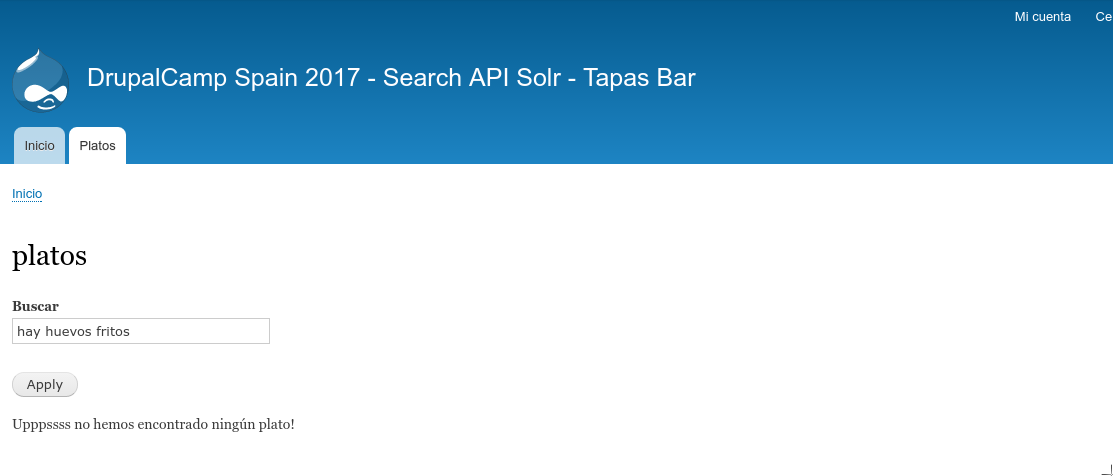
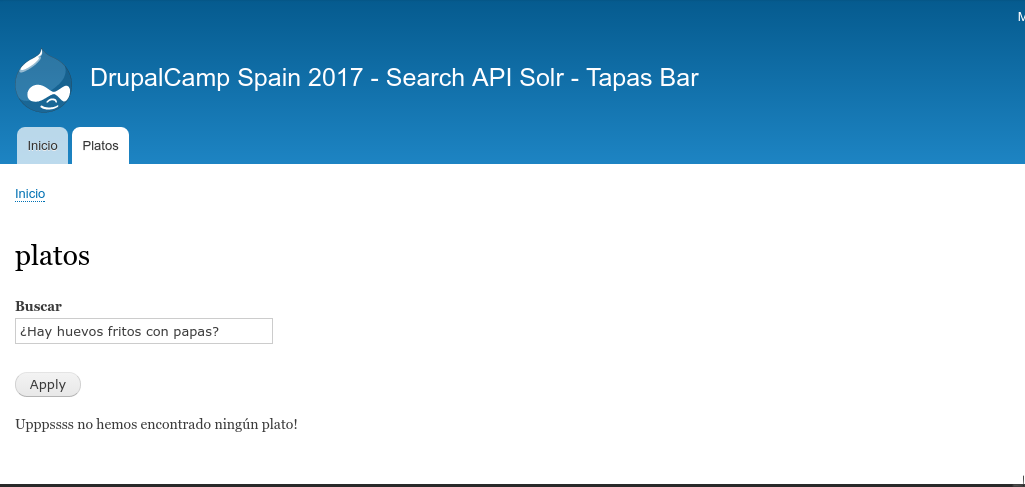
Highlight

diff --git a/index.html b/index.html
@@ -45,7 +45,7 @@
 					</div>
 
 					<div class="drupalcamp-label-blue left xsmall inline-block" style="float:right">
-						#drupalcamp2017
+						#DrupalCampEs
 					</div>
 
 				</section>
@@ -404,7 +404,7 @@
 				<!-- @section SEARCH API SOLR CONFIG-->
 				<section class="chapter-start search-api-solr-config">
 					<h2>Configuración de Search API Solr</h2>
-					<img src="assets/install/config-index-init.png">
+
 				</section>
 				<!-- @endsection -->
 
@@ -515,7 +515,7 @@
 				</section>
 
 
-				<section class="search-api-solr-config.step-12">
+				<section id="search-api-solr-config.step-12" class="search-api-solr-config.step-12">
 					<p class="xxsmall">Paso 12</p>
 					<h4>Configurar Procesadores</h4>
 					<p class="xsmall left">Es una de las herramientas más potentes, por ahora vamos a activar los menos posibles. Algunos pueden interferir con "procesadores" de Solr.<br>Por lo general los procesadores por defecto añaden "propiedades" a los "items" o alteran los valores de sus campos (en distintas etapas del proceso).</p>
@@ -554,27 +554,98 @@
 				<section class="search-api-solr-config.step-17">
 					<h4>Demo</h4>
 					<p class="small">#fail</p>
-					<p class="xsmall left">Con los procesadores (Paso 12) por defecto de Search API podemos solucionar este problema, pero vamos a configurar Solr para que lo haga él.</p>
-					<img src="assets/install/demo-fail.png" width="100%">
+					<p class="xsmall left">Con los procesadores (<a href="#/search-api-solr-config.step-12">Paso 12</a>) por defecto de Search API podemos solucionar este problema, pero vamos a configurar Solr para que lo haga él.<br>Queremos eliminar los signos de interrogación y las palabras comunes como "Hay" o "con". Además queremos añadir "papas" como sinónimo de patatas.</p>
+					<img src="assets/install/demo-fail.png" width="90%">
 				</section>
 
 				<!-- @section SEARCH API SOLR CONFIG-->
-				<section class="search-api-solr-config.solr-config">
+				<section class="chapter-start solr-config">
 					<h2>Configuración de Solr</h2>
 				</section>
 				<!-- @endsection -->
 
+				<section class="solr-config.intro">
+					<h3>Pasos</h3>
+					<ol class="small">
+						<li>Crear un nuevo tipo de campo en el esquema de Solr</li>
+						<li>Añadimos campos dinámicos para ese nuevo tipo</li>
+						<li>Dar de alta el campo en Drupal (para que lo reconozca)</li>
+						<li>Indexar el campo y ver si ofrece mejores resultados</li>
+					</ol>
+				</section>
 
-				<!-- @section Herramientas Tunning -->
-				<section class="search-api-solr-config.tuning">
-					<h3>Tuneando Solr</h3>
-					<div class="xsmall">
+				<section class="solr-config.step-01">
+					<p class="xxsmall">Paso 1</p>
+					<h4>Nuevo tipo de campo en solr</h4>
+					<p class="xsmall">schema_extra_types.xml</p>
+					<pre><code class="xxsmall" data-trim data-noescape>
+&lt;fieldType name=&quot;text_tapas_bar&quot; class=&quot;solr.TextField&quot; positionIncrementGap=&quot;100&quot;&gt;
+    &lt;analyzer type=&quot;index&quot;&gt;
+        &lt;charFilter class=&quot;solr.MappingCharFilterFactory&quot; <mark>mapping=&quot;mapping-ISOLatin1Accent.txt&quot;</mark>/&gt;
+        &lt;tokenizer class=&quot;solr.WhitespaceTokenizerFactory&quot;/&gt;
+        &lt;filter class=&quot;solr.SynonymFilterFactory&quot; <mark>synonyms=&quot;lang/synonyms_es.txt&quot;</mark> ignoreCase=&quot;true&quot; expand=&quot;true&quot;/&gt;
+        &lt;filter class=&quot;solr.StopFilterFactory&quot; <mark>words=&quot;lang/stopwords_tildes_added_es.txt&quot; format=&quot;snowball&quot;</mark> ignoreCase=&quot;true&quot;/&gt;
+        &lt;filter class=&quot;solr.WordDelimiterFilterFactory&quot; generateWordParts=&quot;1&quot; generateNumberParts=&quot;1&quot; splitOnCaseChange=&quot;1&quot; splitOnNumerics=&quot;1&quot; catenateWords=&quot;1&quot; catenateNumbers=&quot;1&quot; catenateAll=&quot;0&quot; protected=&quot;protwords.txt&quot; preserveOriginal=&quot;1&quot;/&gt;
+        &lt;filter class=&quot;solr.LowerCaseFilterFactory&quot;/&gt;
+        <mark>&lt;filter class=&quot;solr.SpanishLightStemFilterFactory&quot;/&gt;</mark>
+        &lt;filter class=&quot;solr.RemoveDuplicatesTokenFilterFactory&quot;/&gt;
+    &lt;/analyzer&gt;
+    &lt;analyzer type=&quot;query&quot;&gt;
+        &lt;charFilter class=&quot;solr.MappingCharFilterFactory&quot; <mark>mapping=&quot;mapping-ISOLatin1Accent.txt&quot;</mark>/&gt;
+        &lt;tokenizer class=&quot;solr.WhitespaceTokenizerFactory&quot;/&gt;
+        &lt;!-- Read https://wiki.apache.org/solr/AnalyzersTokenizersTokenFilters#solr.SynonymFilterFactory --&gt;
+        &lt;!-- &lt;filter class=&quot;solr.SynonymFilterFactory&quot; <mark>synonyms=&quot;lang/synonyms_es.txt&quot;</mark> ignoreCase=&quot;true&quot; expand=&quot;true&quot;/&gt; --&gt;
+        &lt;filter class=&quot;solr.StopFilterFactory&quot; <mark>words=&quot;lang/stopwords_tildes_added_es.txt&quot; format=&quot;snowball&quot;</mark> ignoreCase=&quot;true&quot;/&gt;
+        &lt;filter class=&quot;solr.WordDelimiterFilterFactory&quot; generateWordParts=&quot;1&quot; generateNumberParts=&quot;1&quot; splitOnCaseChange=&quot;1&quot; splitOnNumerics=&quot;1&quot; catenateWords=&quot;0&quot; catenateNumbers=&quot;0&quot; catenateAll=&quot;0&quot; protected=&quot;protwords.txt&quot; preserveOriginal=&quot;1&quot;/&gt;
+        &lt;filter class=&quot;solr.LowerCaseFilterFactory&quot;/&gt;
+        <mark>&lt;filter class=&quot;solr.SpanishLightStemFilterFactory&quot;/&gt;</mark>
+        &lt;filter class=&quot;solr.RemoveDuplicatesTokenFilterFactory&quot;/&gt;
+    &lt;/analyzer&gt;
+&lt;/fieldType&gt;
+						</code></pre>
+				</section>
+
+				<section class="solr-config.step-02">
+					<p class="xxsmall">Paso 2</p>
+					<h4>Crear campos dinámicos asociados a ese tipo </h4>
+					<p class="xsmall">schema_extra_fields.xml</p>
+					<pre><code class="xxsmall" data-trim data-noescape>
+&lt;dynamicField name=&quot;tbars_*&quot; type=&quot;text_tapas_bar&quot; indexed=&quot;true&quot; stored=&quot;true&quot; multiValued=&quot;false&quot; termVectors=&quot;true&quot;/&gt;
+&lt;dynamicField name=&quot;tbarm_*&quot; type=&quot;text_tapas_bar&quot; indexed=&quot;true&quot; stored=&quot;true&quot; multiValued=&quot;true&quot; termVectors=&quot;true&quot;/&gt;
+					</code></pre>
+					<p>Estos campos dinámicos van a ser reconocidos por Search API Solr</p>
+				</section>
+
+
+				<section class="solr-config.step-03">
+					<p class="xxsmall">Paso 3</p>
+					<h4>Damos de alta el campo en Drupal, usando un plugin de search_api</h4>
+					<pre><code class="xxsmall" data-trim data-noescape>
+namespace Drupal\tapas_bar_solr\Plugin\search_api\data_type;
+use Drupal\search_api\DataType\DataTypePluginBase;
+/**
+ *
+ * @SearchApiDataType(
+ *   id = &quot;text_tapas_bar&quot;,
+ *   label = @Translation(&quot;FullText Tapas Bar&quot;),
+ *   description = @Translation(&quot;A text field which takes in account Spanish tapas bar language&quot;),
+ *   fallback_type = &quot;text&quot;,
+ *   prefix = &quot;tbar&quot;,
+ * )
+ */
+class TapasBarDataType extends DataTypePluginBase {
+}</code></pre>
+				</section>
+
+				<section class="solr-config.admin-files">
+					<h3>Vista de archivos</h3>
+					<div class="xxsmall">
 						<p><em>:8983/solr/#/my_core/files</em></p>
 						<table>
 							<tbody>
 							<tr>
 								<td>
-									<img src="assets/tools/solr-ui-admin-files.png" class="hide-pdf" width="100%" />
+									<img src="assets/tools/solr-ui-admin-files.png" width="100%" />
 								</td>
 								<td>
 									<dl class="fonts8">
@@ -583,7 +654,9 @@
 										<dt>Copia los archivos de configuración</dt>
 										<dd>search_api_solr/solr-conf/VERSION_NUMBER.x</dd>
 										<dt>stopwords_es.txt</dt>
-										<dd>Añade stopwords (con y sin tilde)</dd>
+										<dd>Añade stopwords</dd>
+										<dt>synonyms_es.xml</dt>
+										<dd>Añade sinónimos</dd>
 										<dt>mapping-ISOLatin1Accent.txt</dt>
 										<dd>Añade las entradas correspondientes</dd>
 										<dt>schema_extra_types.xml</dt>
@@ -605,12 +678,6 @@
 				</section>
 				<!-- @endsection -->
 
-				<!-- @section Objetivo demo -->
-				<section class="chapter-start example">
-					<h2>Ejemplo</h2>
-				</section>
-				<!-- @endsection -->
-
 				<!-- @section DOCUMENTACIÓN -->
 				<section class="chapter-start docs">
 					<h2>Documentación</h2>
@@ -618,21 +685,9 @@
 				<!-- @endsection -->
 
 				<!-- @section Cheat sheet Drupal -->
-				<section class="docs.pitfails.drupal" data-breadcrumb="Docs > Common pitfails">
-					<h2>Fallos frecuentes</h2>
-					<dl class="xsmall">
-						<dt>No planificar la búsqueda</dt>
-						<dd>Recoge toda la información que puedas sobre hábitos de búsqueda</dd>
-						<dd>Ten en cuenta el contexto. Ej. papas en una página de comida puede ser sinónimo de patatas, mientras que en una de maternidad podría no tener sentido</dd>
-						<dd>Es mejor comenzar con pocos datos a indexar</dd>
-					</dl>
-				</section>
-				<!-- @endsection -->
-
-				<!-- @section Cheat sheet Drupal -->
 				<section class="docs.cheatsheet.drupal" data-breadcrumb="Docs > Cheat sheet > Drupal">
-					<h2>Drupal - Cheat sheet</h2>
-					<dl class="xsmall">
+					<h4>Drupal - Referencias</h4>
+					<dl class="xxsmall">
 						<dt>Converting a SearchAPI query into a Solr query</dt>
 						<dd>SearchApiSolrBackend::search(QueryInterface $query)</dd>
 						<dt>alterSearchApiQuery</dt>
@@ -650,8 +705,8 @@
 
 				<!-- @section Cheat sheet Solr -->
 				<section class="docs.cheatsheet.solr" data-breadcrumb="Docs > Cheat sheet > Solr">
-					<h3>Solr - Cheat sheet</h3>
-					<dl class="xsmall">
+					<h4>Solr - Referencias</h4>
+					<dl class="xxsmall">
 						<dt>Apache Solr Reference Guide</dt>
 						<dd><a href="https://cwiki.apache.org/confluence/display/solr/Apache+Solr+Reference+Guide">https://cwiki.apache.org/confluence/display/solr/Apache+Solr+Reference+Guide</a></dd>
 						<dt>Solr resources</dt>
@@ -677,8 +732,8 @@
 
 				<!-- @section Cheat sheet Solr -->
 				<section class="docs.references" data-breadcrumb="Docs > Referencias">
-					<h2>Referencias</h2>
-					<dl class="xsmall">
+					<h4>Otras Referencias</h4>
+					<dl class="xxsmall">
 						<dt>Búsquedas "Full Text"</dt>
 						<dd><a href="https://en.wikipedia.org/wiki/Full-text_search">https://en.wikipedia.org/wiki/Full-text_search</a></dd>
 						<dd><a href="http://stackoverflow.com/questions/224714/what-is-full-text-search-vs-like">http://stackoverflow.com/questions/224714/what-is-full-text-search-vs-like</a></dd>
